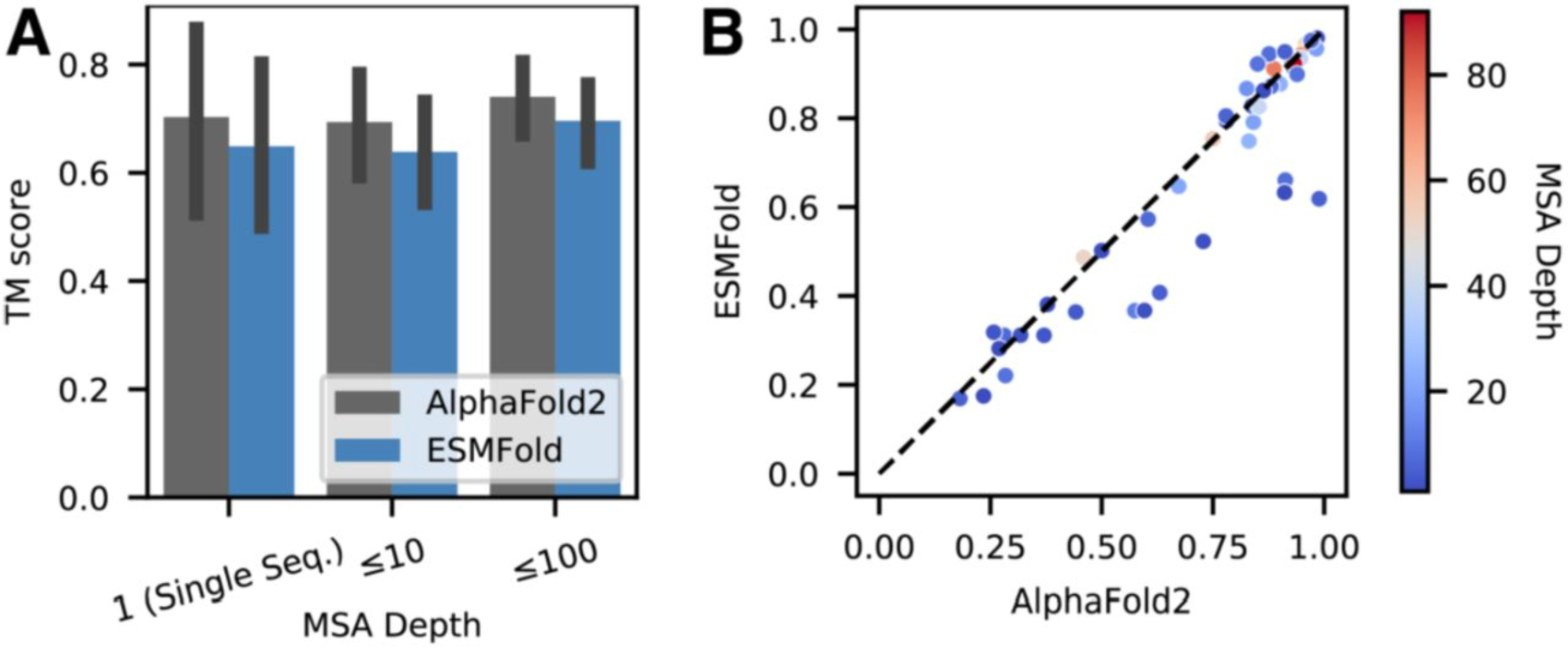
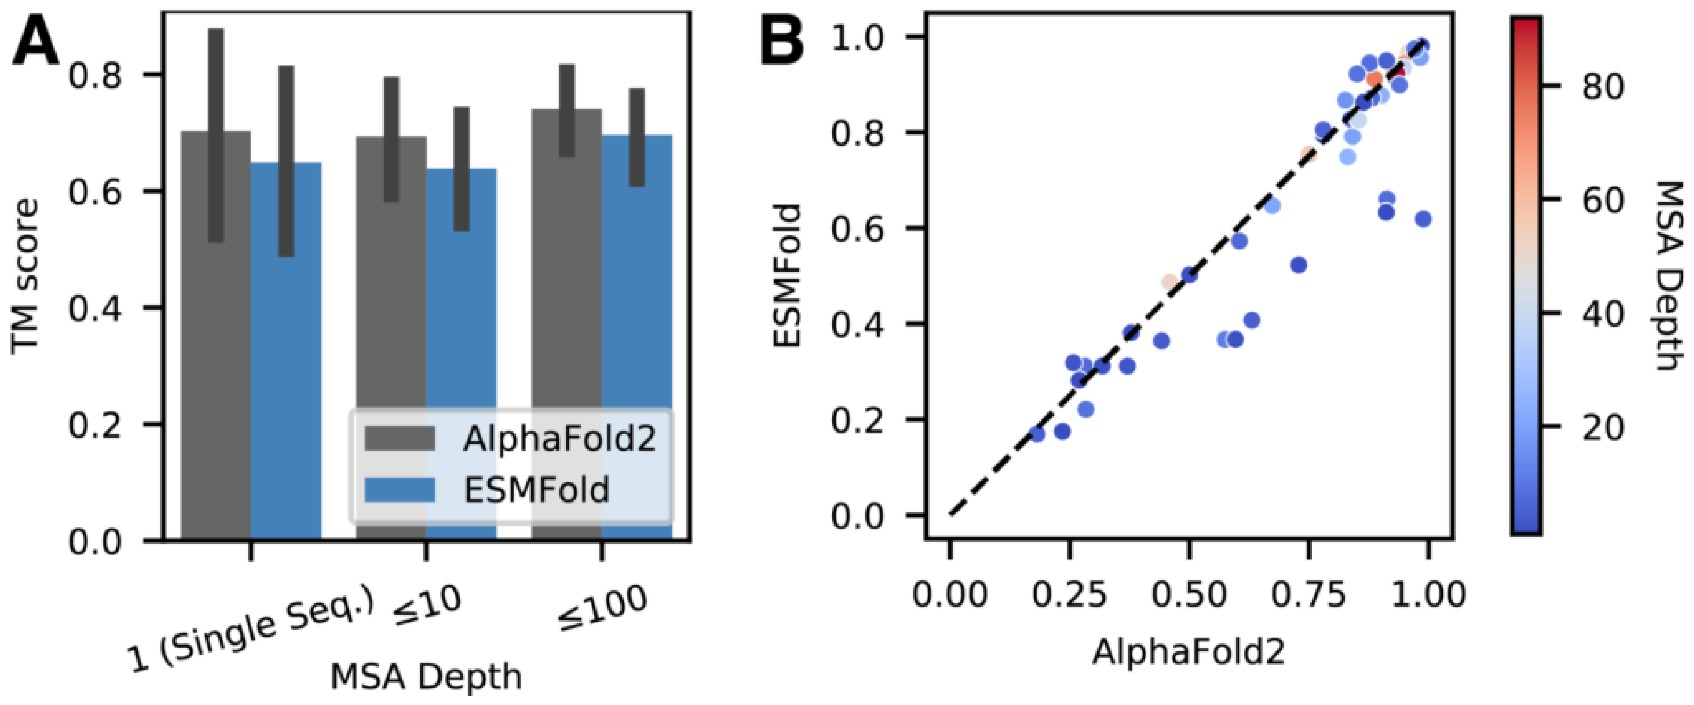
Re-capture Lin et al. Figure 1 and S8 from the PDF
The two figures in the ESM-2 post still came from bioRxiv's HTML rasters.
Re-captured both from the v3 PDF (pages 3 and 26) in Chrome's viewer at 250%
and 500%, where the figures are still vector.

- Figure 1: 841 x 738 -> 1699 x 1360, stitched from six tiles
- Figure S8: 1568 x 656 (from a 1280 px JPEG) -> 1694 x 705 of real detail

Both are shown unmodified, as the licence requires: this paper's bioRxiv
version is CC BY-NC-ND, so nothing is drawn on them and the captions already
say "원본 그대로". The tiles are aligned by correlating their overlap rather
than by eye, so each result is a faithful reproduction and not a redraw.

Claude-Session: https://claude.ai/code/session_01WeuVKTz2XfxiKwtoJS4U2K

diff --git a/content/posts/_drafts/esm2-esmfold/tools/stitch_esm2.py b/content/posts/_drafts/esm2-esmfold/tools/stitch_esm2.py
@@ -1,0 +1,101 @@
+"""Stitch the tiled PDF captures of Lin et al. Figure 1 and Figure S8.
+
+Offsets are found by correlating the overlap, not by eye, so the result is a
+faithful reproduction of the original figure (required: CC BY-NC-ND).
+"""
+from PIL import Image
+import numpy as np
+
+S = "/tmp/esm2/"
+
+
+def gray(im):
+    return np.asarray(im.convert("L"), dtype=np.int16)
+
+
+def h_offset(a, b, lo, hi):
+    A, B = gray(a), gray(b)
+    best, bo = None, None
+    for o in range(lo, hi):
+        w = min(A.shape[1] - o, B.shape[1])
+        if w < 150:
+            continue
+        h = min(A.shape[0], B.shape[0])
+        d = np.abs(A[:h, o:o + w] - B[:h, :w]).mean()
+        if best is None or d < best:
+            best, bo = d, o
+    return bo, best
+
+
+def v_offset(a, b, lo, hi):
+    A, B = gray(a), gray(b)
+    best, bo = None, None
+    for o in range(lo, hi):
+        hh = min(A.shape[0] - o, B.shape[0])
+        if hh < 100:
+            continue
+        w = min(A.shape[1], B.shape[1])
+        d = np.abs(A[o:o + hh, :w] - B[:hh, :w]).mean()
+        if best is None or d < best:
+            best, bo = d, o
+    return bo, best
+
+
+def hcat(a, b, lo, hi):
+    o, d = h_offset(a, b, lo, hi)
+    print("   h offset", o, "diff", round(d, 2))
+    W = max(a.width, o + b.width)
+    H = max(a.height, b.height)
+    c = Image.new("RGB", (W, H), "white")
+    c.paste(a, (0, 0)); c.paste(b, (o, 0))
+    return c
+
+
+def vcat(a, b, lo, hi):
+    o, d = v_offset(a, b, lo, hi)
+    print("   v offset", o, "diff", round(d, 2))
+    H = max(a.height, o + b.height)
+    W = max(a.width, b.width)
+    c = Image.new("RGB", (W, H), "white")
+    c.paste(a, (0, 0)); c.paste(b, (0, o))
+    return c
+
+
+def load(n):
+    return Image.open(S + n).convert("RGB")
+
+
+# ----------------------------------------------------------------- Figure 1
+print("Figure 1 rows")
+top = hcat(load("f1_TL.png"), load("f1_TR.png"), 120, 1400)
+mid = hcat(load("f1_ML.png"), load("f1_MR.png"), 120, 1400)
+# bottom tiles were captured from a shorter region, so they came back at a
+# slightly different scale — normalise before stitching them to the rest
+k = (1527 / 1460) / (1568 / 1460)
+bl, br = load("f1_BL.png"), load("f1_BR.png")
+bl = bl.resize((round(bl.width * k), round(bl.height * k)), Image.LANCZOS)
+br = br.resize((round(br.width * k), round(br.height * k)), Image.LANCZOS)
+bot = hcat(bl, br, 120, 1400)
+
+print("Figure 1 columns")
+tm = vcat(top, mid, 80, 770)
+full = vcat(tm, bot, 200, tm.height - 100)
+# trim the white margins
+a = np.asarray(full.convert("L"))
+mask = a < 245
+ys, xs = np.where(mask)
+full = full.crop((max(0, xs.min() - 12), max(0, ys.min() - 12),
+                  min(full.width, xs.max() + 12), min(full.height, ys.max() + 12)))
+full.save(S + "fig1_full.png")
+print("Figure 1 ->", full.size)
+
+# ---------------------------------------------------------------- Figure S8
+print("Figure S8")
+s8 = hcat(load("s8_L.png"), load("s8_R.png"), 40, 500)
+a = np.asarray(s8.convert("L"))
+mask = a < 245
+ys, xs = np.where(mask)
+s8 = s8.crop((max(0, xs.min() - 10), max(0, ys.min() - 10),
+              min(s8.width, xs.max() + 10), min(s8.height, ys.max() + 10)))
+s8.save(S + "figS8_full.png")
+print("Figure S8 ->", s8.size)
